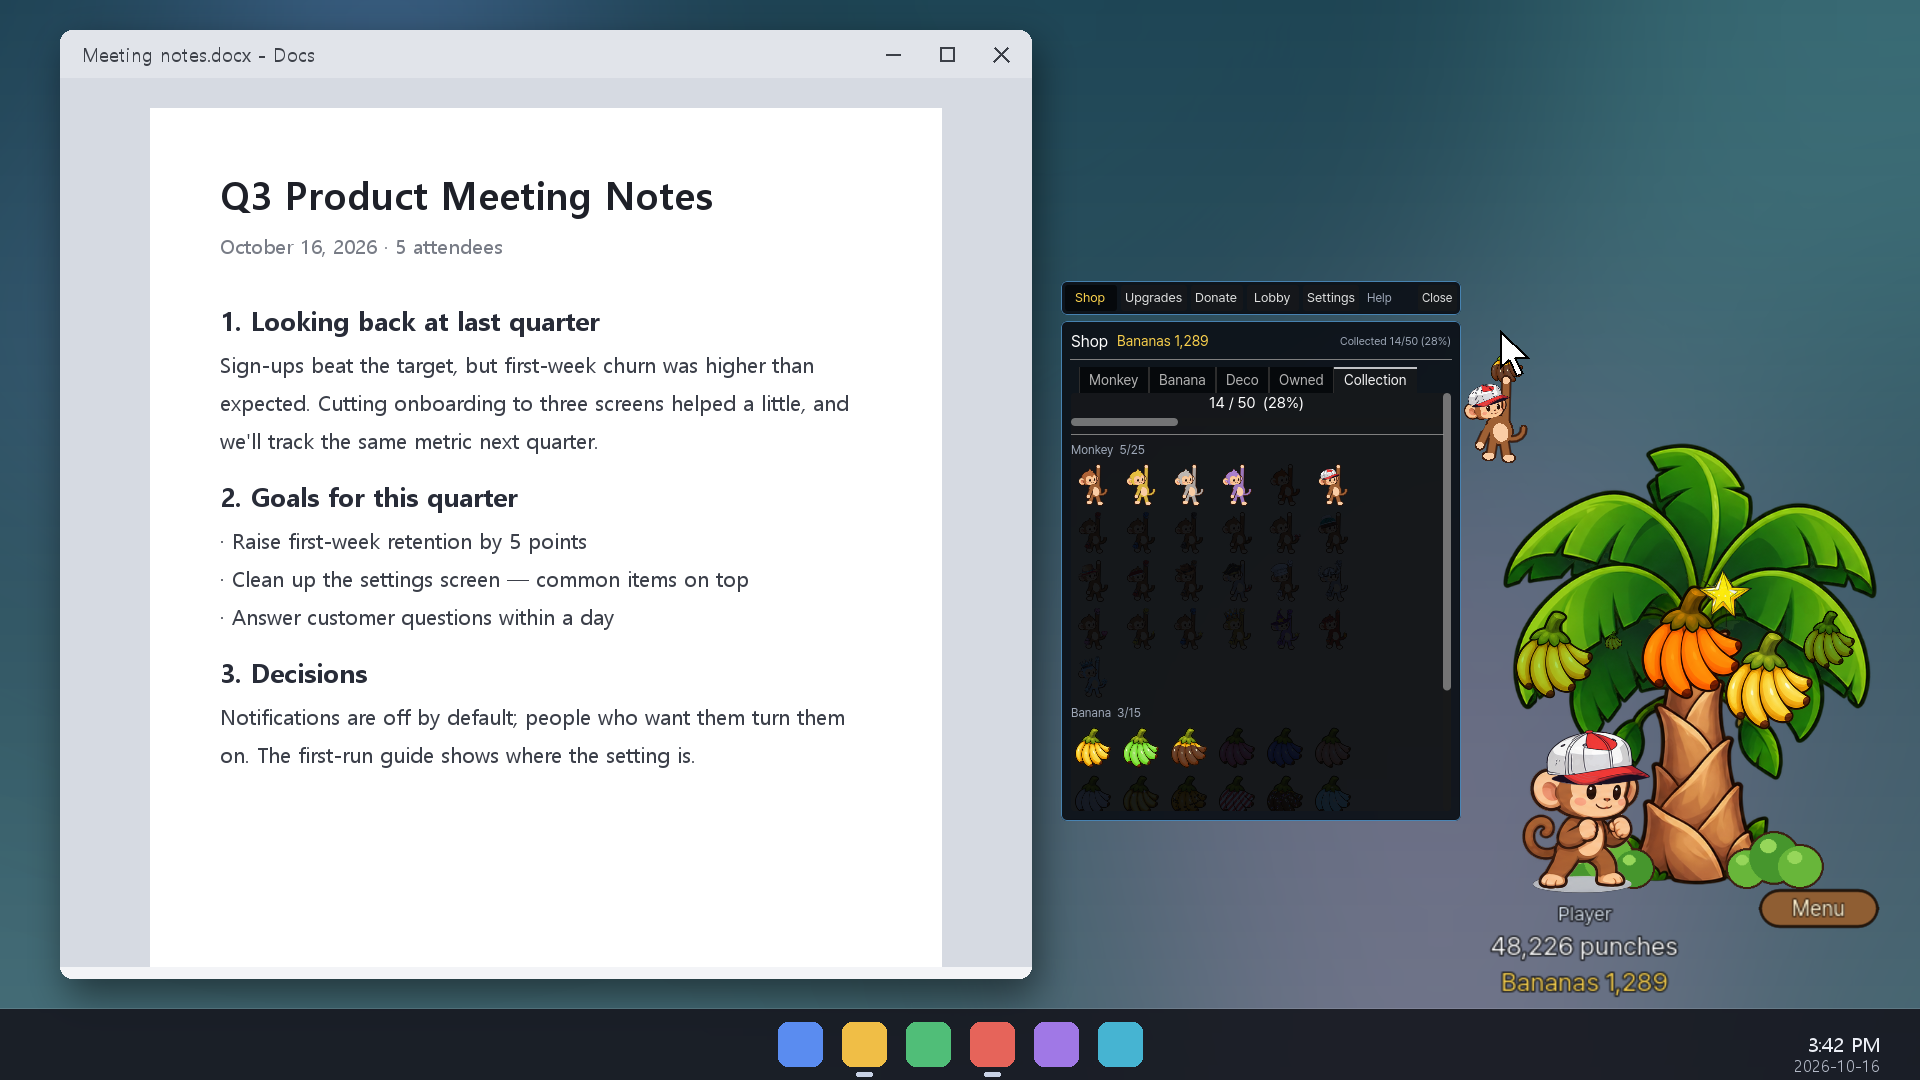
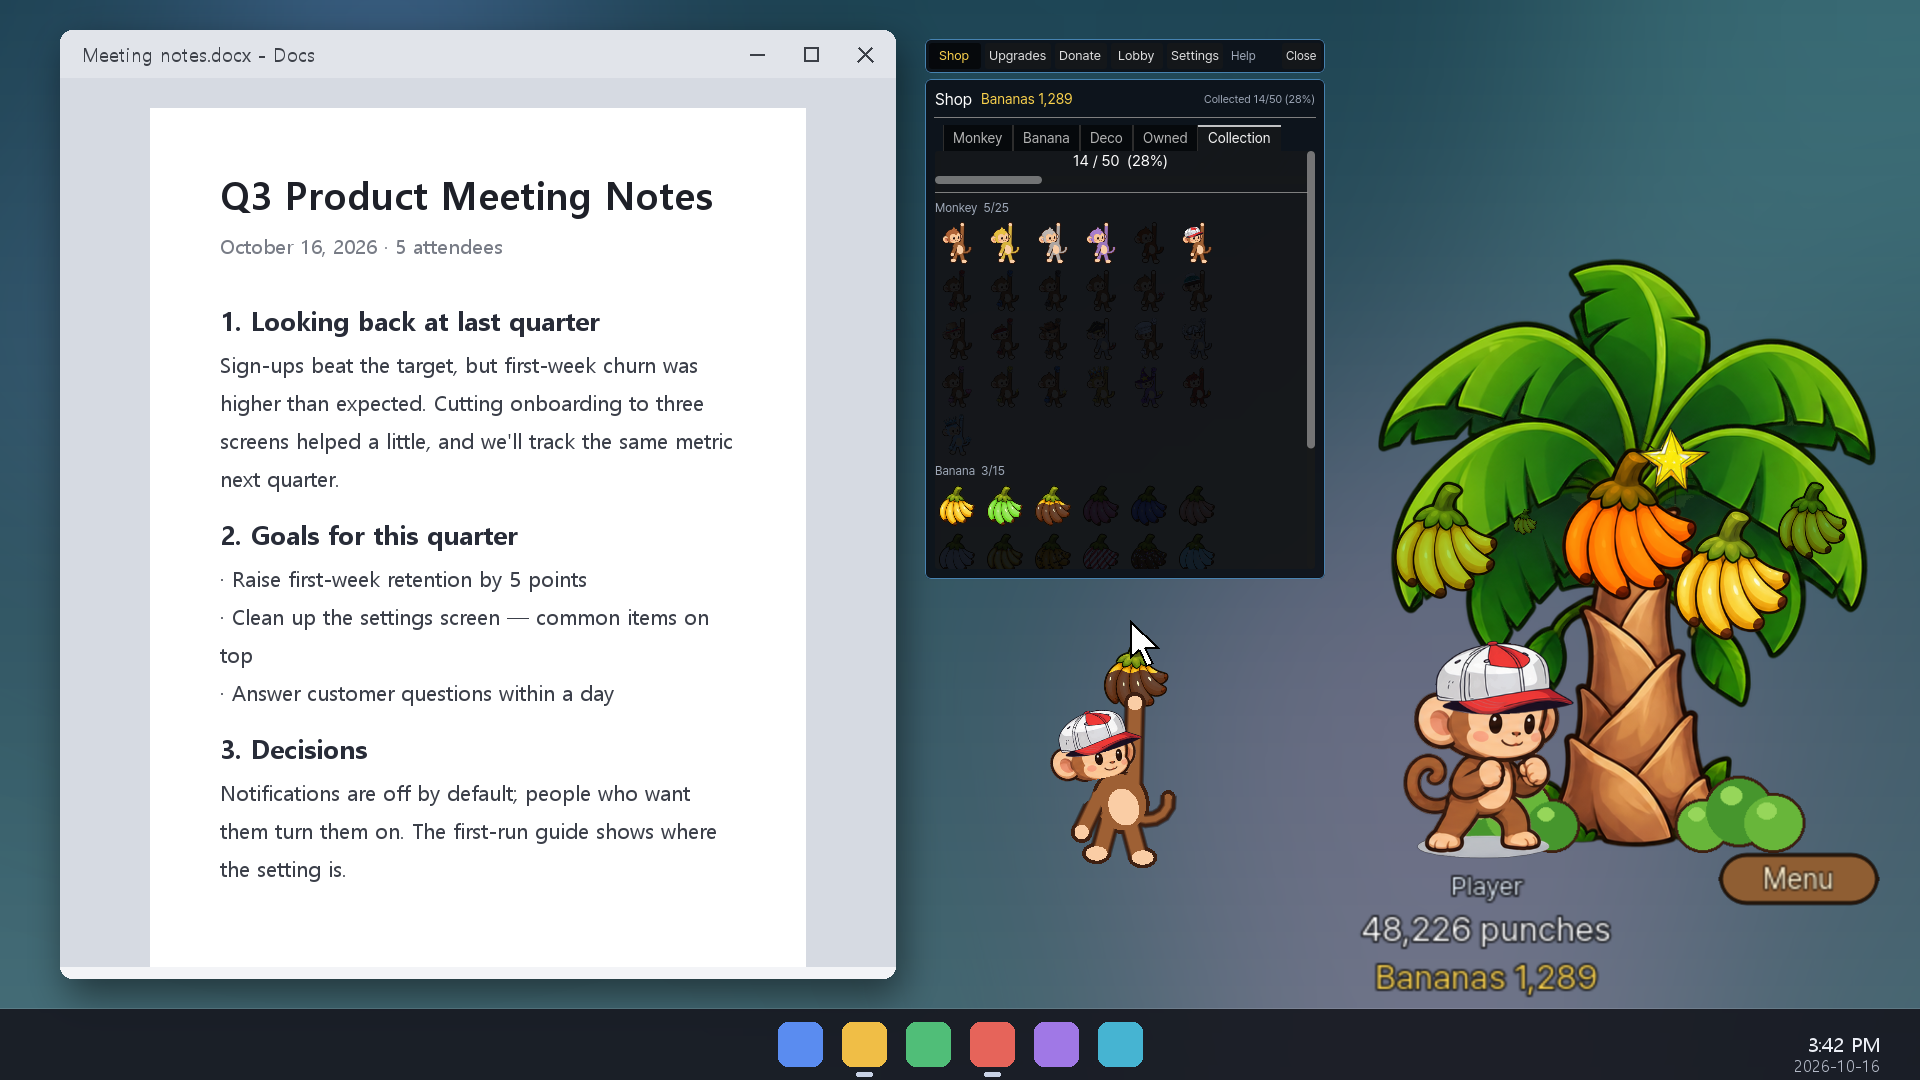
feat(store): 스크린샷을 창·커서 크기 2.0 으로 - 썸네일에서 원숭이가 작던 것
- --store-shot 에 --shot-scale / --shot-cursor-scale (디버그 전용, 안 주면 예전 1.5 / 1.0)
- 합성이 원판 배율을 읽어 배치를 바꾼다 - 커서 끝점은 커서 창 크기로, 확대 원 1.35배, 도감·친구 장면 자리
- 설명란 그림은 1.5 원판에서만 뽑는다 (자르는 자리가 1.5 기준)
- 영어·한국어 스크린샷 7장씩 다시 합성

diff --git a/tools/make-store-screenshots.py b/tools/make-store-screenshots.py
@@ -48,6 +48,8 @@ class Raw:
     def __init__(self, folder):
         self.folder = folder
         self.pos = {}
+        # 원판 창 배율 (--shot-scale) - 배율 1 메인 창 너비가 420 이다
+        self.scale = Image.open(os.path.join(folder, "idle__root.png")).width / 420
         with open(os.path.join(folder, "manifest.tsv"), encoding="utf-8") as f:
             for row in csv.DictReader(f, delimiter="\t"):
                 self.pos[(row["shot"], row["window"])] = (int(row["x"]), int(row["y"]))
@@ -294,7 +296,9 @@ def cursor(bg, raw, shot, tip):
     """커서 장식 창(CURSOR_TIP = 커서 끝점) + 시스템 화살표(150% 배율 크기)."""
     if raw.has(shot, "CursorWindow"):
         deco = raw.img(shot, "CursorWindow")
-        bg.alpha_composite(deco, (round(tip[0] - CURSOR_TIP[0]), round(tip[1] - CURSOR_TIP[1])))
+        # 커서 크기 옵션을 키워 찍으면 창과 끝점이 같이 커진다 (CursorLayer.SetScale) - 창 너비로 배율을 되짚는다
+        s = round(deco.width / 224 * 4) / 4
+        bg.alpha_composite(deco, (round(tip[0] - CURSOR_TIP[0] * s), round(tip[1] - CURSOR_TIP[1] * s)))
     a = arrow(46)
     bg.alpha_composite(a, (round(tip[0] - 3), round(tip[1] - 3)))
 
@@ -356,7 +360,7 @@ def shot_work(raw):
     bg = wallpaper(0)
     code_editor(bg, (40, 30, 1270, H - TASKBAR - 30))
     game_at(bg, raw, "punch_1")
-    cursor(bg, raw, "punch_1", (960, 600))
+    cursor(bg, raw, "punch_1", (960, 600) if raw.scale < 2 else (860, 470))
     taskbar(bg)
     return bg
 
@@ -376,10 +380,13 @@ def shot_cursor(raw):
     game_at(bg, raw, "shop_tab0")
     tip = (820, 300)
     cursor(bg, raw, "shop_tab0", tip)
-    # 원숭이(바나나 아래 약 125px)를 두 배로 - B17 전에는 작은 장식이라 3.4배였다
-    focus = (tip[0] - 4, tip[1] + 62)
-    src, mask = magnifier(bg, focus, 210, 2.0)
-    place_magnifier(bg, src, mask, (420, 640), focus, src_r=105)
+    # 원숭이(바나나 아래 약 125px)를 두 배로 - B17 전에는 작은 장식이라 3.4배였다.
+    # 커서 2.0 원판은 원숭이가 이미 두 배라 1.35배만 (2026-10-26)
+    big = raw.scale >= 2
+    focus = (tip[0] - 4, tip[1] + (124 if big else 62))
+    zoom = 1.35 if big else 2.0
+    src, mask = magnifier(bg, focus, 230 if big else 210, zoom)
+    place_magnifier(bg, src, mask, (420, 680 if big else 640), focus, src_r=round((230 if big else 210) / zoom))
     taskbar(bg)
     return bg
 
@@ -388,7 +395,7 @@ def shot_collection(raw):
     bg = wallpaper(1)
     document(bg, (60, 30, work_right(raw, "shop_tab4", 1250), H - TASKBAR - 30))
     game_at(bg, raw, "shop_tab4")
-    cursor(bg, raw, "shop_tab4", (1500, 330))
+    cursor(bg, raw, "shop_tab4", (1500, 330) if raw.scale < 2 else (1130, 620))
     taskbar(bg)
     return bg
 
@@ -407,10 +414,16 @@ def shot_lobby(raw):
 
 def shot_friends(raw):
     bg = wallpaper(1)
-    document(bg, (60, 30, 1250, H - TASKBAR - 30))
-    game_at(bg, raw, "lobby_2")
-    friends(bg, raw, "lobby_2", [(1290, 40), (1500, 40), (1710, 40)])
-    cursor(bg, raw, "lobby_2", (760, 460))
+    if raw.scale < 2:
+        document(bg, (60, 30, 1250, H - TASKBAR - 30))
+        game_at(bg, raw, "lobby_2")
+        friends(bg, raw, "lobby_2", [(1290, 40), (1500, 40), (1710, 40)])
+        cursor(bg, raw, "lobby_2", (760, 460))
+    else:   # 나무가 커서 위쪽 오른편에 친구 칸 셋이 안 들어간다 - 문서를 줄이고 그 옆에 둔다
+        document(bg, (60, 30, 880, H - TASKBAR - 30))
+        game_at(bg, raw, "lobby_2")
+        friends(bg, raw, "lobby_2", [(890, 30), (1100, 30), (890, 350)])
+        cursor(bg, raw, "lobby_2", (560, 430))
     taskbar(bg)
     return bg
 
@@ -501,7 +514,10 @@ def main():
         im.save(os.path.join(OUT, f"{name}.jpg"), quality=92)
         shots[name] = im
         print(name)
-    sections(shots, raw)
+    if raw.scale == 1.5:
+        sections(shots, raw)
+    else:   # 설명란 그림의 자르는 자리는 1.5 원판 기준이다 - 다른 배율로는 뽑지 않는다
+        print(f"원판 배율 {raw.scale} - 설명란 그림은 건너뛴다 (1.5 원판으로 따로 돌릴 것)")
 
 
 if __name__ == "__main__":

diff --git a/platform/OverlayShell.StoreShots.cs b/platform/OverlayShell.StoreShots.cs
@@ -30,6 +30,20 @@ public partial class OverlayShell
     /// </summary>
     private const float StoreShotScale = 1.5f;
 
+    /// <summary>
+    /// 내 창·내 커서 배율을 바꿔 찍는다 (2026-10-26). 스토어 썸네일(600x338)에서 1.5 로는 원숭이가 작아서
+    /// 스크린샷은 옵션 최대인 <c>--shot-scale=2 --shot-cursor-scale=2</c> 로 찍는다. 친구 칸은 그대로 - 로비 장면에서 세 칸이
+    /// 세로로 안 들어간다. 안 주면 예전과 같다(설명란 그림·트레일러).
+    /// </summary>
+    private const string ShotScalePrefix = "--shot-scale=", ShotCursorScalePrefix = "--shot-cursor-scale=";
+
+    private static float ArgFloat(string prefix, float fallback)
+    {
+        string arg = Array.Find(OS.GetCmdlineUserArgs(), a => a.StartsWith(prefix, StringComparison.Ordinal));
+        return arg != null && float.TryParse(arg[prefix.Length..], System.Globalization.NumberStyles.Float,
+            System.Globalization.CultureInfo.InvariantCulture, out float v) ? v : fallback;
+    }
+
     /// <summary>찍을 때 보유한 것으로 둘 장식 (도감이 "절반 넘게" 로 보이게).</summary>
     private static readonly string[] StoreShotOwned =
     {
@@ -259,9 +273,9 @@ public partial class OverlayShell
     /// </summary>
     private void SetStoreShotScales()
     {
-        SetScale(StoreShotScale);
+        SetScale(ArgFloat(ShotScalePrefix, StoreShotScale));
         SetFriendScale(StoreShotScale);
-        SetCursorScale(1f);
+        SetCursorScale(ArgFloat(ShotCursorScalePrefix, 1f));
         SetFriendCursorScale(1f);
     }
 

diff --git a/docs/C1-STORE.md b/docs/C1-STORE.md
@@ -110,6 +110,9 @@ C:\Tools\Godot_v4.7.2-stable_mono_win64\Godot_v4.7.2-stable_mono_win64_console.e
 **메뉴가 열린 원판은 창이 넓다** (2026-09-28). 메뉴가 게임 화면 왼쪽 옆 420px 칸에 뜨므로(IShell.SetSidePanel) 원판도
 그만큼 넓다. 메뉴 칸 글자는 배율을 안 받는다 — 게임 그대로다. 합성은 뒤의 편집기·문서 창을 그 앞에서 끝낸다(`work_right`).
 
+- **스토어 스크린샷은 `--shot-scale=2 --shot-cursor-scale=2`** (2026-10-26) - 내 창·내 커서를 옵션 최대 2.0 으로. 1.5 로는 스토어
+  썸네일(600x338)에서 원숭이가 구석의 작은 그림, 커서 원숭이는 점이었다. 합성은 원판 배율을 알아서 읽고 배치를 바꾼다.
+  **설명란 그림(§4-4)은 1.5 원판에서만 뽑는다** - 인자 없이 한 번 더 찍어 돌린다(2.0 원판이면 합성이 설명란을 건너뛴다)
 - **창 배율 1.5** 로 찍는다(옵션 "크기" 범위 안). 1.0 으로는 1920x1080 에서 원숭이가 썸네일의 점이 된다.
   바탕화면도 150% 배율 모니터처럼 그렸다(작업 표시줄 72px, 커서 46px)
 - 입력 헬퍼를 띄우지 않고 타건을 코드로 넣는다(`HelperInputSource.DebugInject`) — 찍는 동안 실제 키보드가 섞이지 않는다
